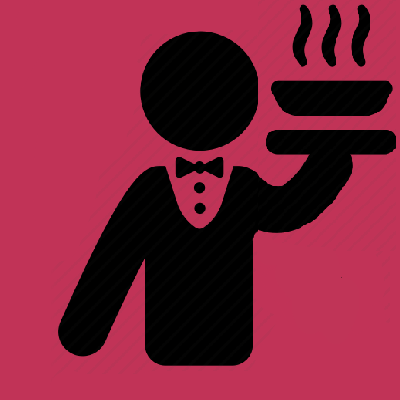
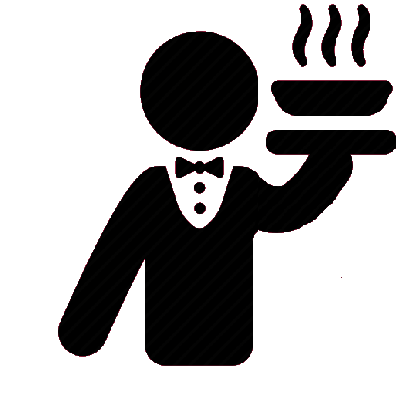
added new transparent images of waiter sprite and new carpet image, delete unused images

diff --git a/sprites/carpetSprite.py b/sprites/carpetSprite.py
@@ -3,7 +3,7 @@ from sprites.basic_sprite import BasicSprite
 
 class CarpetSprite(BasicSprite):
     def __init__(self, width, height):
-        self.image_name = "carpet.png"
+        self.image_name = "carpet1.png"
         BasicSprite.__init__(self, width, height, self.image_name)
 
 

diff --git a/sprites/basic_sprite.py b/sprites/basic_sprite.py
@@ -1,6 +1,7 @@
 import pygame
 from PIL import Image,ImageDraw
 
+
 class BasicSprite(pygame.sprite.Sprite):
     def __init__(self, width, height, image_name):
         pygame.sprite.Sprite.__init__(self)
